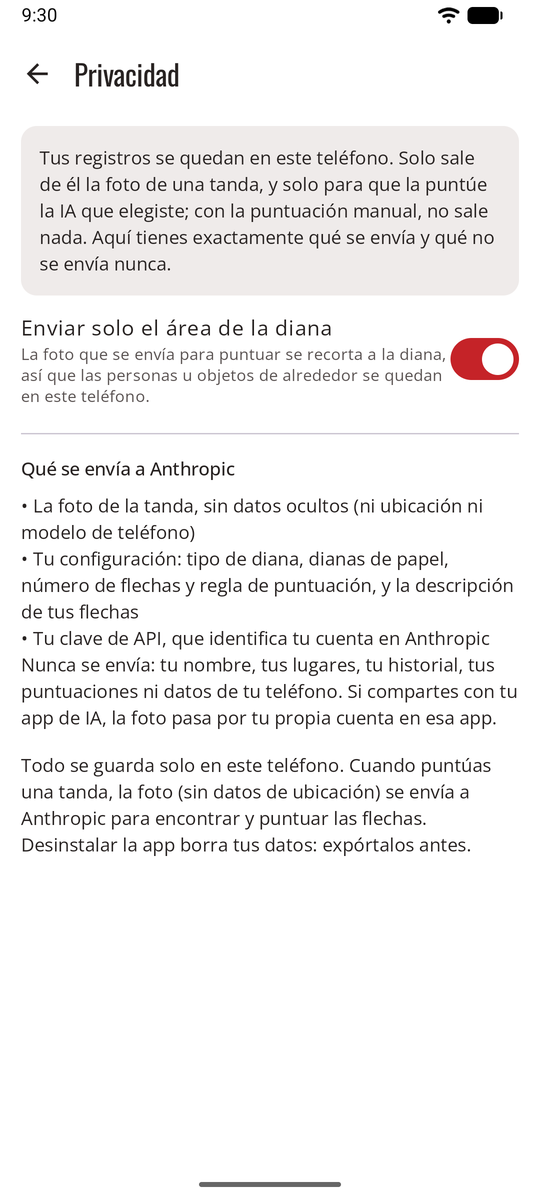
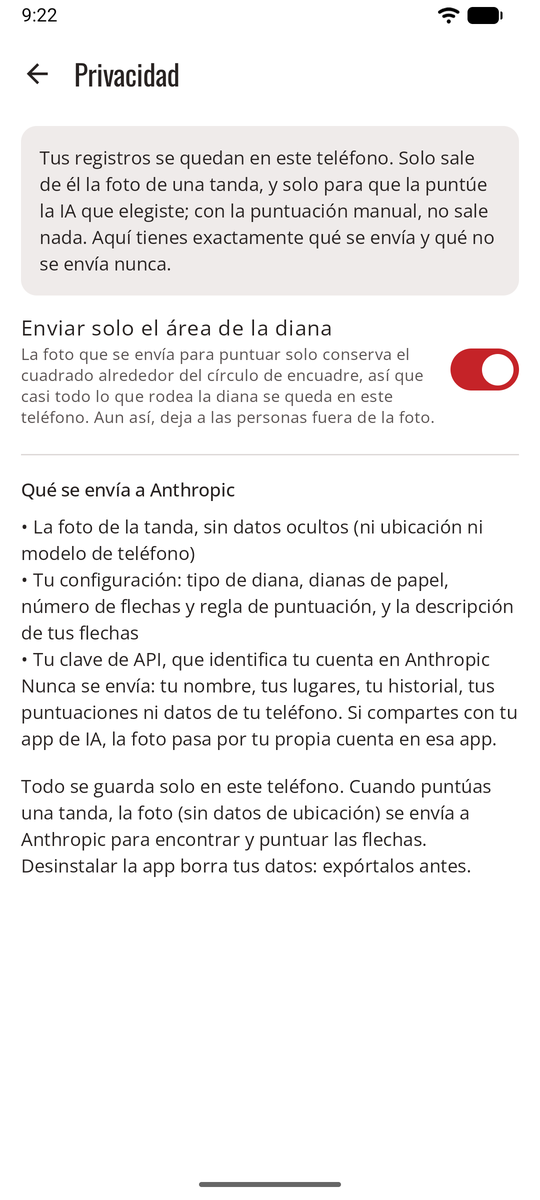
Update the sagitt·AI·re site

Changed region(s): [[0.0296, 0.2775, 0.9481, 0.74], [0.8296, 0.2775, 0.9778, 0.3392], [0.0593, 0.0, 0.1185, 0.0308]]

diff --git a/sagittaire/docs/index.fr.md b/sagittaire/docs/index.fr.md
@@ -165,3 +165,5 @@ Les mêmes données, le même comptage : choisissez celle qui vous plaît, et c
 ## Où en est le projet
 
 sagitt·AI·re est un projet pro bono du Studio Ashencroft, en développement actif. Il fonctionne sur Android 8 et plus récent. **Il n’est pas sur Google Play :** on l’installe directement sur le téléphone. La [feuille de route](roadmap.md) montre ce qui est fait et ce qui vient. Utiliser sagitt·AI·re, c’est accepter ses [conditions d’utilisation](terms.md) : l’application est fournie telle quelle. Sa [politique de confidentialité](privacy-policy.md) explique ce qui reste sur votre téléphone et ce qui est envoyé.
+
[1 lines of base64/hex data omitted]

diff --git a/sagittaire/docs/privacy-policy.de.md b/sagittaire/docs/privacy-policy.de.md
@@ -25,7 +25,7 @@ Andere Apps können diese Informationen nicht lesen, und die Fotos erscheinen ni
 
 **Wertung mit deinem eigenen API-Schlüssel.** Wenn eine Passe gewertet wird, sendet die App über eine verschlüsselte Verbindung (HTTPS) und nur an den von dir gewählten KI-Dienst, an die mit seinem Schlüssel gespeicherte Adresse:
 
-- das Foto der Passe, aus dem die versteckten Daten (Standort, Gerätemodell, Datum) entfernt wurden und das, sofern du dies nicht abschaltest, auf die Scheibe zugeschnitten ist;
+- das Foto der Passe, aus dem die versteckten Daten (Standort, Gerätemodell, Datum) entfernt wurden und das, sofern du dies nicht abschaltest, auf das Quadrat um den Rahmenkreis zugeschnitten ist, was das meiste der Umgebung weglässt, aber nicht, was vor der Scheibe steht;
 - die Angaben, die der Dienst für die Wertung braucht: die Auflage und die Auflagen auf der Scheibe, die Anzahl der Pfeile, die Wertungsregel, deine Pfeilbeschreibung und die Sprache für seine Anmerkungen;
 - deinen API-Schlüssel, der dein Konto bei diesem Dienst identifiziert.
 

diff --git a/sagittaire/docs/normal.fr.md b/sagittaire/docs/normal.fr.md
@@ -41,7 +41,7 @@ Chaque page des réglages commence par une courte explication, puis ses choix.
 | **Langue** | Français, anglais, allemand, espagnol ou la langue du téléphone (Android 13 et plus récent). |
 | **Lieux enregistrés** | Renommer, fusionner ou supprimer les lieux de vos séances. Voir [Lieux enregistrés](sessions.md#lieux-enregistres). |
 | **Stockage et sauvegarde** | Espace utilisé, exporter, restaurer, libérer de l’espace. Voir [Stockage et sauvegarde](backup.md). |
-| **À propos et mentions légales** | La version, les [conditions d’utilisation](terms.md), la [politique de confidentialité](privacy-policy.md) et les [licences de logiciels libres](licences.md). |
+| **À propos et mentions légales** | La version, l’empreinte du certificat qui a signé cette copie ([la vérifier](index.md#ou-en-est-le-projet)), les [conditions d’utilisation](terms.md), la [politique de confidentialité](privacy-policy.md) et les [licences de logiciels libres](licences.md). |
 
 ## Objectifs d’entraînement
 

diff --git a/sagittaire/docs/index.de.md b/sagittaire/docs/index.de.md
@@ -165,3 +165,5 @@ Dieselben Daten, dieselbe Wertung: Nimm, was dir gefällt, und wechsle jederzeit
 ## Stand { #status }
 
 sagitt·AI·re ist ein Pro-bono-Projekt von Ashencroft Studio und wird aktiv entwickelt. Es läuft ab Android 8. **Es ist nicht bei Google Play:** Die App wird direkt auf dem Handy installiert. In der [Roadmap](roadmap.md) steht, was fertig ist und was als Nächstes kommt. Wer sagitt·AI·re nutzt, akzeptiert seine [Nutzungsbedingungen](terms.md): Es wird bereitgestellt, wie es ist. Seine [Datenschutzerklärung](privacy-policy.md) erklärt, was auf deinem Handy bleibt und was gesendet wird.
+
[1 lines of base64/hex data omitted]

diff --git a/sagittaire/docs/normal.es.md b/sagittaire/docs/normal.es.md
@@ -41,7 +41,7 @@ Cada página de Ajustes empieza con una breve explicación y luego sus opciones.
 | **Idioma** | Inglés, francés, alemán, español o el idioma del teléfono (Android 13 y posteriores). |
 | **Lugares guardados** | Cambiar el nombre, fusionar o eliminar los lugares de tus sesiones. Consulta [Lugares guardados](sessions.md#saved-places). |
 | **Almacenamiento y copia de seguridad** | Espacio usado, exportar, restaurar, liberar espacio. Consulta [Almacenamiento y copia de seguridad](backup.md). |
-| **Información y aviso legal** | La versión, las [condiciones de uso](terms.md), la [política de privacidad](privacy-policy.md) y las [licencias de código abierto](licences.md). |
+| **Información y aviso legal** | La versión, la huella del certificado que firmó esta copia ([comprobarla](index.md#status)), las [condiciones de uso](terms.md), la [política de privacidad](privacy-policy.md) y las [licencias de código abierto](licences.md). |
 
 ## Objetivos de entrenamiento { #training-goals }
 

diff --git a/sagittaire/docs/index.es.md b/sagittaire/docs/index.es.md
@@ -165,3 +165,5 @@ Los mismos registros, la misma puntuación: elige la que te guste y cambia cuand
 ## Estado { #status }
 
 sagitt·AI·re es un proyecto pro bono del Estudio Ashencroft, en desarrollo activo. Funciona en Android 8 y posteriores. **No está en Google Play:** se instala directamente en el teléfono. Consulta la [hoja de ruta](roadmap.md) para ver lo que está hecho y lo que viene. Usar sagitt·AI·re significa aceptar sus [condiciones de uso](terms.md): se ofrece tal cual. Su [política de privacidad](privacy-policy.md) explica qué se queda en tu teléfono y qué se envía.
+
[1 lines of base64/hex data omitted]

diff --git a/sagittaire/docs/privacy-policy.es.md b/sagittaire/docs/privacy-policy.es.md
@@ -25,7 +25,7 @@ Otras aplicaciones no pueden leer esta información, y las fotos no aparecen en 
 
 **Puntuación con tu propia clave de API.** Cuando se puntúa una tanda, la App envía, mediante una conexión cifrada (HTTPS) y solo al servicio de IA que elegiste, a la dirección guardada con su clave:
 
-- la foto de la tanda, sin sus datos ocultos (ubicación, modelo del dispositivo, fecha) y, salvo que desactives esta opción, recortada a la diana;
+- la foto de la tanda, sin sus datos ocultos (ubicación, modelo del dispositivo, fecha) y, salvo que desactives esta opción, recortada al cuadrado alrededor del círculo de encuadre, lo que deja fuera casi todo el entorno, pero no lo que esté delante de la diana;
 - la configuración que el servicio necesita para puntuarla: la diana y las dianas colocadas en el parapeto, el número de flechas, la regla de puntuación, la descripción de tus flechas y el idioma de sus notas;
 - tu clave de API, que identifica tu cuenta en ese servicio.
 

diff --git a/sagittaire/docs/normal.de.md b/sagittaire/docs/normal.de.md
@@ -41,7 +41,7 @@ Jede Einstellungsseite beginnt mit einer kurzen Erklärung, dann folgen ihre Opt
 | **Sprache** | Englisch, Französisch, Deutsch, Spanisch oder die Sprache des Handys (Android 13 und neuer). |
 | **Gespeicherte Orte** | Die Orte deiner Einheiten umbenennen, zusammenführen oder löschen. Siehe [Gespeicherte Orte](sessions.md#saved-places). |
 | **Speicher und Sicherung** | Belegter Speicher, Export, Wiederherstellen, Speicher freigeben. Siehe [Speicher und Sicherung](backup.md). |
-| **Info und Rechtliches** | Die Version, die [Nutzungsbedingungen](terms.md), die [Datenschutzerklärung](privacy-policy.md) und die [Open-Source-Lizenzen](licences.md). |
+| **Info und Rechtliches** | Die Version, den Fingerabdruck des Zertifikats, mit dem diese Kopie signiert ist ([prüfen](index.md#status)), die [Nutzungsbedingungen](terms.md), die [Datenschutzerklärung](privacy-policy.md) und die [Open-Source-Lizenzen](licences.md). |
 
 ## Trainingsziele { #training-goals }
 

diff --git a/sagittaire/docs/privacy-policy.md b/sagittaire/docs/privacy-policy.md
@@ -23,7 +23,7 @@ Other apps cannot read this information, and the photos do not appear in your ga
 
 **Scoring with your own API key.** When an end is scored, the App sends, over an encrypted connection (HTTPS) and only to the AI service you chose, at the address saved with its key:
 
-- the photo of the end, with its hidden data (location, device model, date) removed and, unless you turn this off, trimmed to the target;
+- the photo of the end, with its hidden data (location, device model, date) removed and, unless you turn this off, cropped to the square around the framing circle, which leaves out most of the surroundings but not what stands in front of the target;
 - the setup the service needs to score it: the target face and paper faces, the number of arrows, the scoring rule, your arrow description, and the language for its notes;
 - your API key, which identifies your account with that service.
 

diff --git a/sagittaire/docs/index.md b/sagittaire/docs/index.md
@@ -165,3 +165,5 @@ Same records, same scoring: pick the one you like, and switch at any time in **S
 ## Status
 
 sagitt·AI·re is a pro bono project of Ashencroft Studio, in active development. It runs on Android 8 and later. **It isn't on Google Play:** it is installed directly on the phone. See the [roadmap](roadmap.md) for what's done and what's next. Using sagitt·AI·re means accepting its [terms of use](terms.md): it is provided as is. Its [privacy policy](privacy-policy.md) explains what stays on your phone and what is sent.
+
[1 lines of base64/hex data omitted]

diff --git a/sagittaire/docs/privacy.fr.md b/sagittaire/docs/privacy.fr.md
@@ -21,7 +21,7 @@ C'est tout : vos arcs et vos lieux, vos séances, chaque volée avec sa photo, 
 
 Seulement quand une volée est comptée par un service d'IA, par une connexion chiffrée, à ce service seulement :
 
-- **la photo de la volée**, sans données cachées (ni position, ni modèle de téléphone) et, par défaut, recadrée sur la zone de la cible ;
+- **la photo de la volée**, sans données cachées (ni position, ni modèle de téléphone) et, par défaut, recadrée sur le carré autour du cercle de cadrage (l’essentiel des alentours reste sur votre téléphone ; évitez donc d’avoir des personnes sur la photo) ;
 - **les paramètres de la séance** : blason, nombre de blasons, nombre de flèches et règle de comptage, et la description de vos flèches ;
 - **votre clé API**, qui identifie votre compte chez ce service.
 
